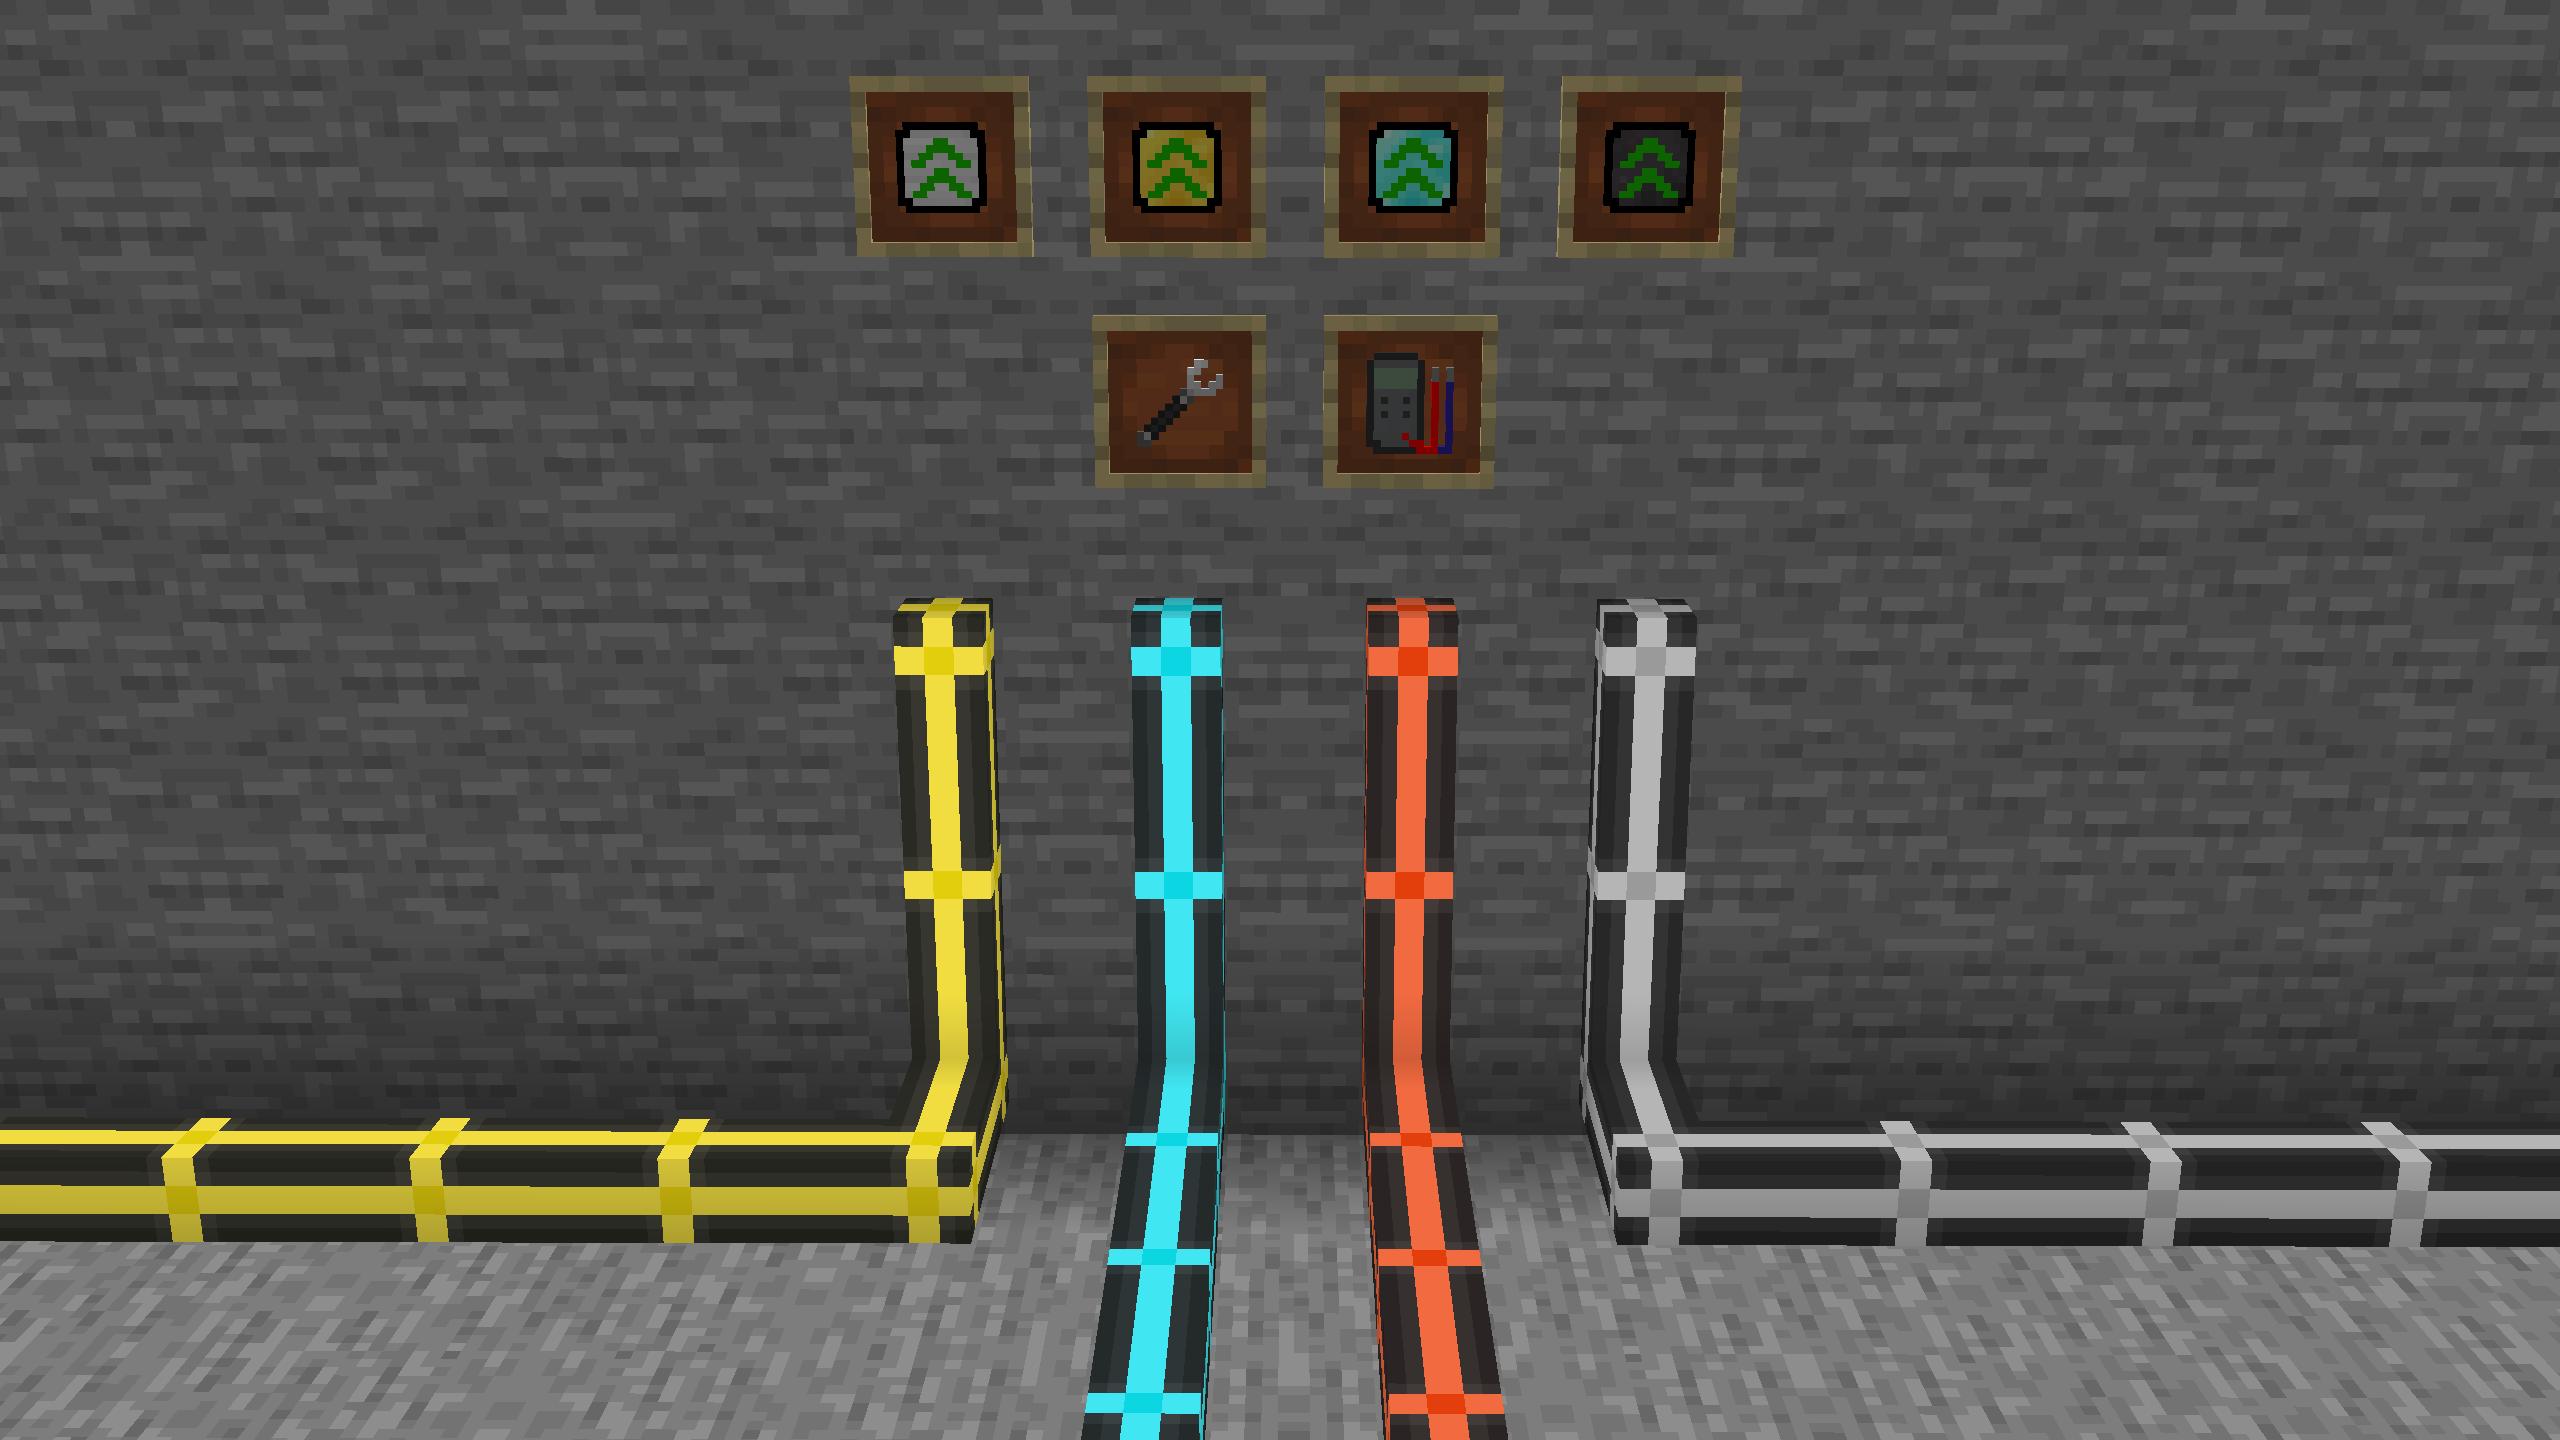
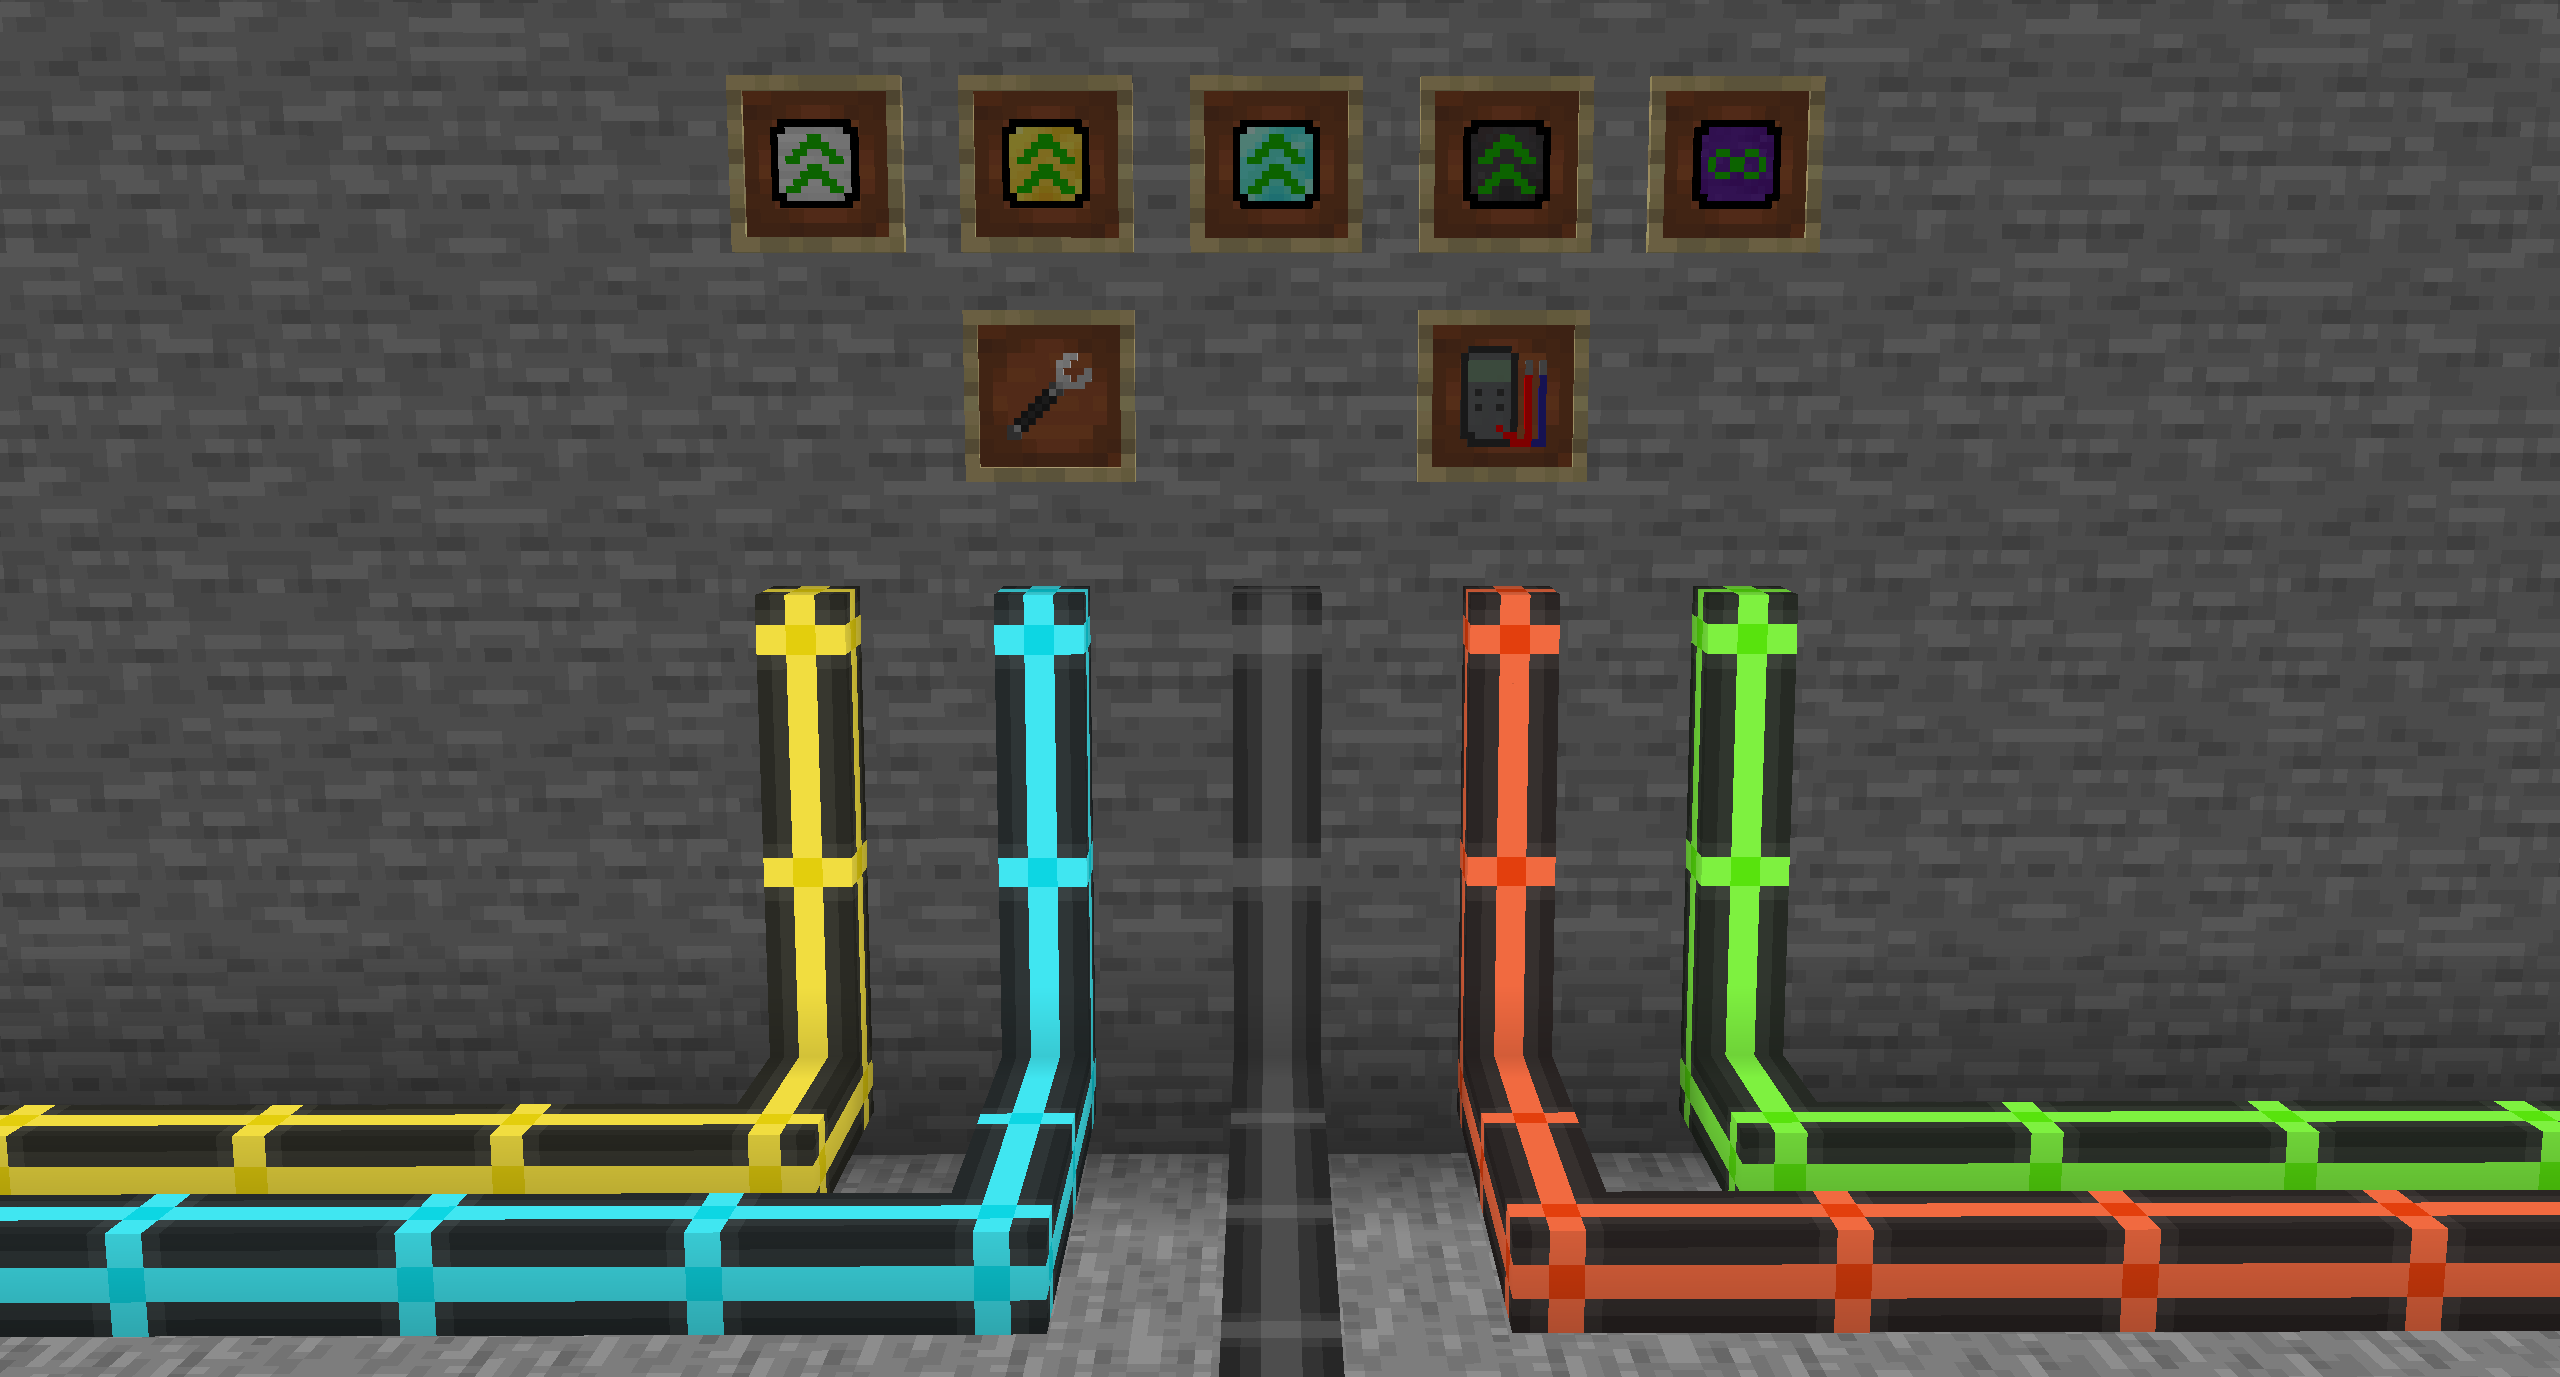
Update pipez description

diff --git a/pages/minecraft/pipez/_tabname.vue b/pages/minecraft/pipez/_tabname.vue
@@ -29,6 +29,7 @@
             >Mekanism</a
           >)
         </li>
+        <li>Universal Pipes (All 4 Pipes in one!)</li>
       </ul>
       <h2>Features</h2>
       <ul>
@@ -190,6 +191,13 @@
       </p>
       <v-img
         :src="require('~/assets/minecraft/pipez/image_pipez_5.png')"
+      ></v-img>
+      <br/>
+      <p>
+        The <b>Universal Pipe</b> has every feature of all other pipes combined. You can choose which pipe type you want to configure with the tabs on the left of the GUI.
+      </p>
+      <v-img
+        :src="require('~/assets/minecraft/pipez/image_pipez_8.png')"
       ></v-img>
       <br/>
       <h2>Performance Comparison</h2>
